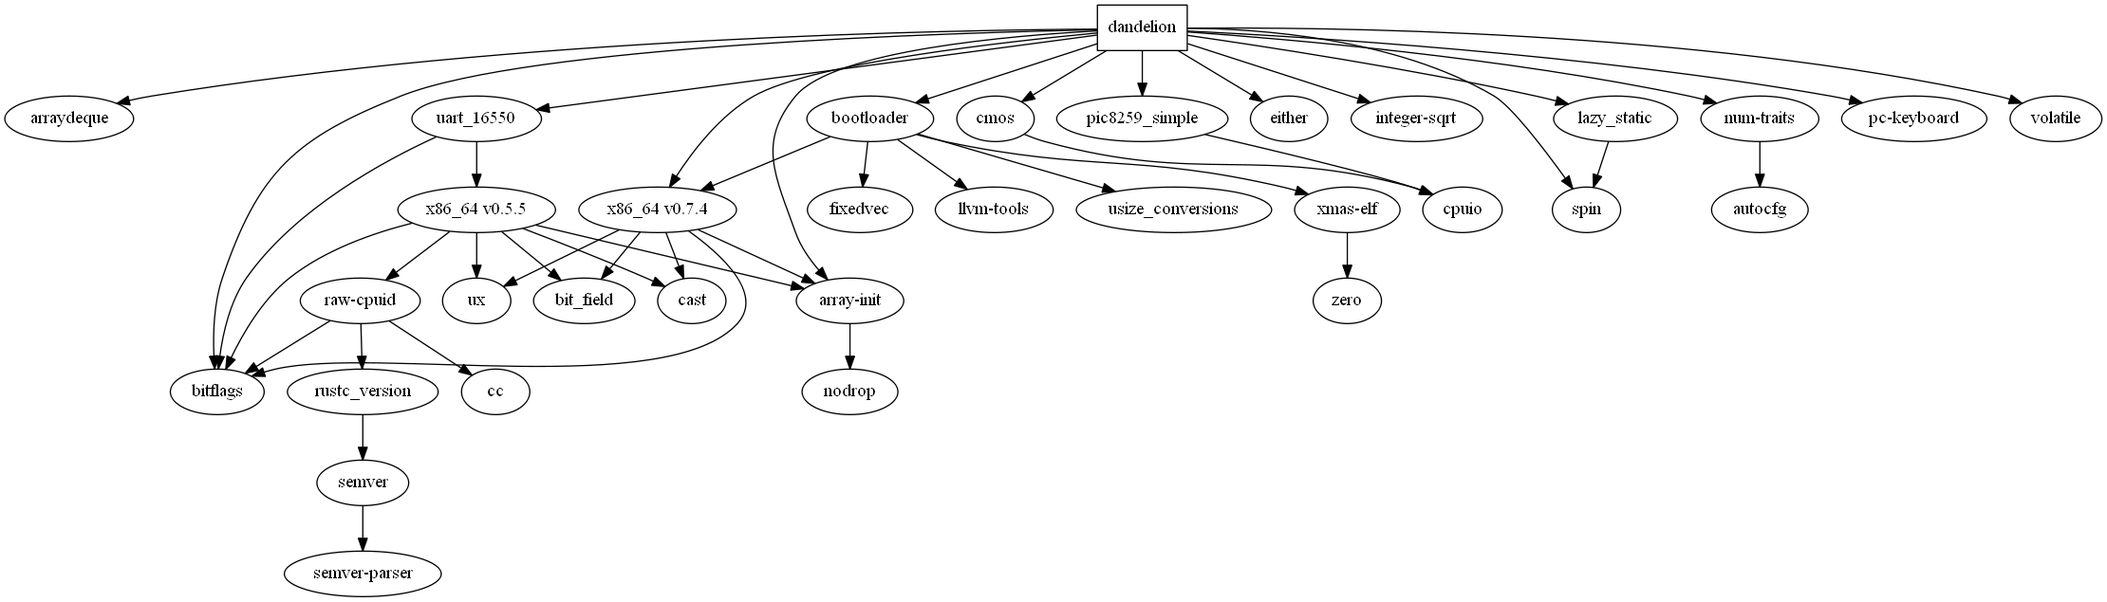
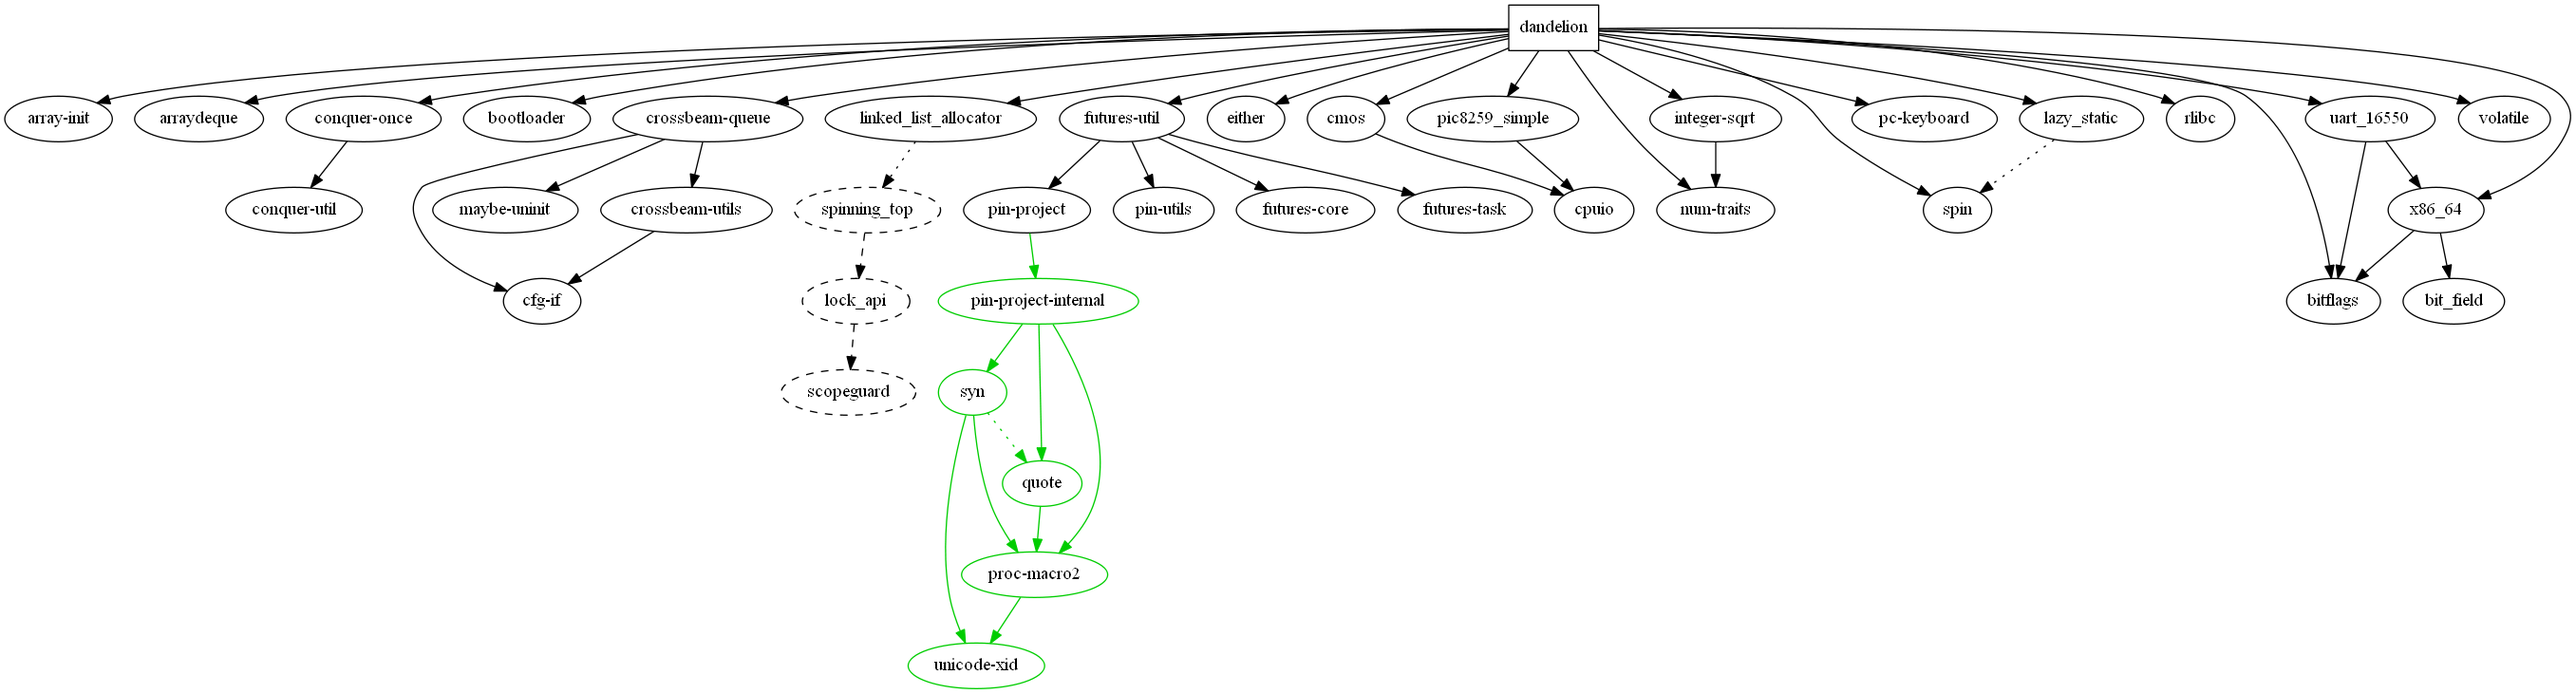
📝update readme and graph dependency

diff --git a/src/main.rs b/src/main.rs
@@ -1,16 +1,17 @@
 //! run & tests
-//!		cargo xrun
-//!		cargo xtest
+//!		cargo build
+//!		cargo run
+//!		cargo test
 //!
 //! format & lint
-//!		cargo fmt && cargo +nightly xclippy
+//!		cargo fmt && cargo clippy
 //!
 //! detect certain classes of undefined behavior (currently not working)
 //!		cargo clean && cargo miri test && cargo miri run
 //!
 //! repository data
 //!		tokei ./src --files
-//!		cargo deps --all-deps | dot -Tpng > graph.png
+//!		cargo depgraph | dot -Tpng > graph.png
 //!
 //! bootable USB
 //!		dd if=target/x86_64-dandelion/debug/bootimage-dandelion.bin of=/dev/sdX && sync
@@ -18,6 +19,7 @@
 //! misc
 //!		https://giphy.com/gifs/love-cute-adorable-RExphJPPMEVeo
 //!		https://perf.rust-lang.org/
+//!		https://rust-lang.github.io/rustup-components-history/
 
 #![no_std]
 #![no_main]
@@ -28,6 +30,8 @@
 #![feature(allocator_api)]
 #![feature(core_intrinsics)]
 #![feature(custom_test_frameworks)]
+
+#![allow(clippy::tabs_in_doc_comments)]
 
 extern crate alloc;
 

diff --git a/README.md b/README.md
@@ -18,16 +18,16 @@
 ## Table of contents
 
 - [Motivation](#motivation)
-- [Main design characteristics](<#Main design characteristics>)
-- [Technical choices](<#Technical choices>)
-- [Getting started](<#Getting started>)
+- [Main design characteristics](#Main design characteristics)
+- [Technical choices](#Technical choices)
+- [Getting started](#Getting started)
   - [Prerequisites](#prerequisites)
   - [Installing](#Installing)
-- [Running the tests](<#Running the tests>)
+- [Running the tests](#Running the tests)
 - [Deployment](#deployment)
-- [Built tool](<#Build tool>)
+- [Built tool](#Build tool)
 - [Documentation](#documentation)
-- [File hierarchy](<#File hierarchy>)
+- [File hierarchy](#File hierarchy)
 - [Contributing](#contributing)
 - [Versioning](#versioning)
 - [Authors](#authors)
@@ -62,41 +62,33 @@ Then you need to install an emulator to run the RTOS. We recommand [Qemu](https:
 
 ### Installing
 
-A step by step series of examples that tell you how to get a development env running.
-Say what the step will be
+First you need to clone the repository:
 
 ```
 git clone https://github.com/AntoineSebert/dandelion
 cd dandelion
 ```
 
-If you want to clone dandelion in a particular folder, use
+Then you need to build the project and generate an iso image of the RTOS:
 
 ```
-git clone https://github.com/AntoineSebert/dandelion location
-cd location/dandelion
-```
-
-Then you need to build the project and generate an iso image of the RTOS.
-
-```
+cargo update
 cargo build
-cargo run parameters
 ```
 
-```
-qemu ... dandelion.iso
-```
+### Running the operating system
 
-End with an example of getting some data out of the system or using it for a little demo.
+Once all previous steps have been completed successfully, simply run the project:
+
+```
+cargo run
+```
 
 ## Running the tests
 
-Explain how to run the automated tests for this system.
-
-## Deployment
-
-Add additional notes about how to deploy this on a live system.
+```
+cargo test
+```
 
 ## Build tool
 
@@ -105,45 +97,6 @@ Add additional notes about how to deploy this on a live system.
 ## Documentation
 
 The documentation for this repository can be found at https://github.com/AntoineSebert/dandelion/documentation
-
-## File hierarchy
-
-```
---src/
-  +--bin/
-  |  +--test-basic-boot.rs
-  |  +--test-exception-breakpoint.rs
-  |  +--test-exception-double-fault-stack-overflow.rs
-  |  +--test-firm-deadline-exception.rs
-  |  +--test-hard-deadline-exception.rs
-  |  +--test-panic.rs
-  |  +--test-soft-deadline-exception.rs
-  |  +--test-task-remaining-exception.rs
-  |  +--test-time-remaining-exception.rs
-  +--kernel/
-  |  +--ipc/
-  |  |  +--mod.rs
-  |  +--scheduler/
-  |  |  +--mod.rs
-  |  |  +--admitter.rs
-  |  |  +--dispatcher.rs
-  |  |  +--swapper.rs
-  |  +--shell/
-  |  |  +--mod.rs
-  |  +--vmm/
-  |  |  +--mod.rs
-  |  |  +--gdt.rs
-  |  |  +--memory.rs
-  |  +--mod.rs
-  |  +--acpi.rs
-  |  +--interrupt.rs
-  |  +--process.rs
-  |  +--serial.rs
-  |  +--time.rs
-  |  +--vga_buffer.rs
-  +--lib.rs
-  +--main.rs
-```
 
 ## Contributing
 
